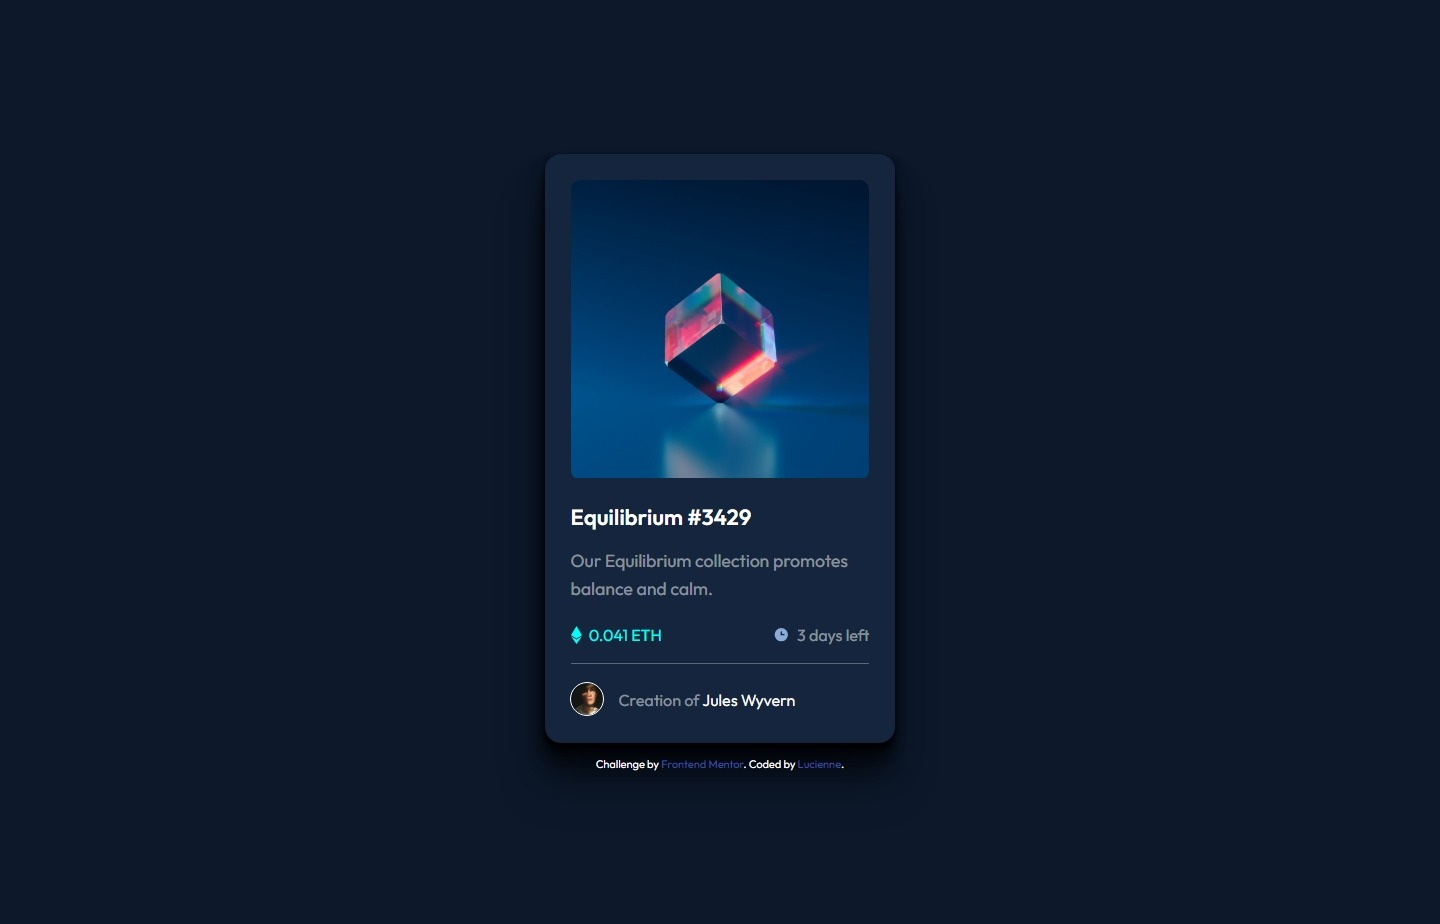
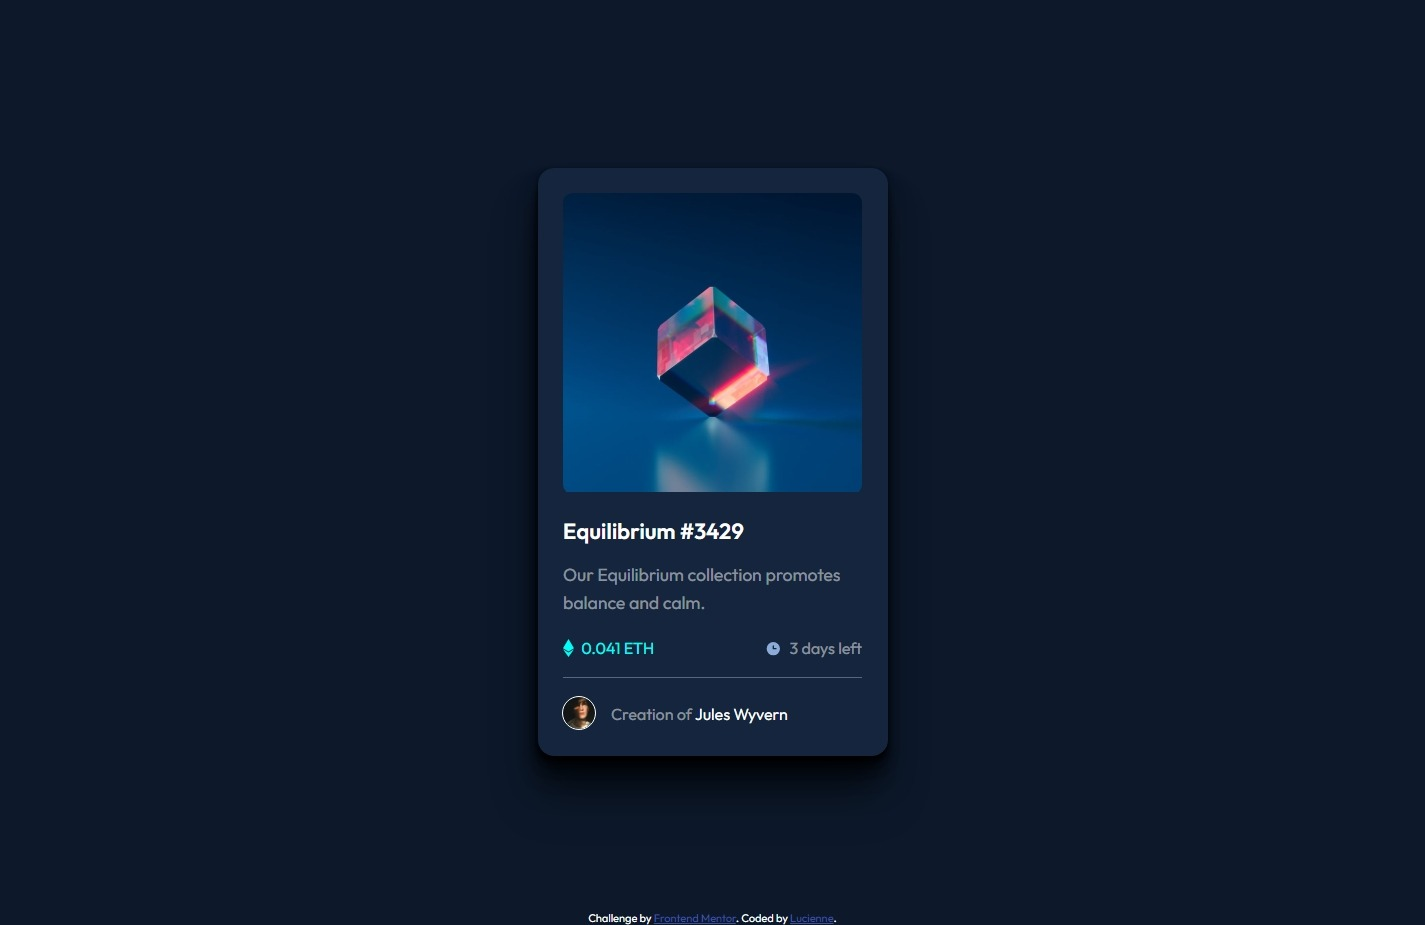
style: position footer attribution at the bottom

diff --git a/nft-preview-card-component/css/style.css b/nft-preview-card-component/css/style.css
@@ -142,7 +142,8 @@ body {
     color: var(--color-white-50);
 }
 .attribution {
-    margin-top: 1rem;
+    position: absolute;
+    bottom: 0;
 }
 .attribution a {
     text-decoration: underline;

diff --git a/single-price-grid-component/css/style.css b/single-price-grid-component/css/style.css
@@ -151,6 +151,10 @@ h2 {
     margin-bottom: .3rem;
 }
 
+footer {
+    position: absolute;
+    bottom: 0;
+}
 
 @media (min-width: 768px) {
     main {
